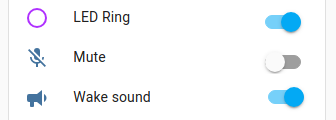
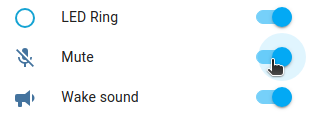
Mute: tweaks (#64)
* Mute: tweaks

- fix typo
- add related topics
- change screenshot to show active mute toggle

* Update src/guides/mute.html

* Update src/guides/mute.html

diff --git a/src/guides/mute.html b/src/guides/mute.html
@@ -24,3 +24,17 @@ tools:
 {% render "proc.include.liquid", proc: procedureMute %}
 
 
+<div class="container">
+  <div class="text">
+    <h1>Related topics</h1>
+    <span>
+      <ul><li><a href="/documentation/status_colors/"
+        target="_blank">Status colors</a></li>
+        <li><a href="/guides/wake_sound_toggle/"
+          target="_blank">Turning the wake sound on or off</a></li>
+        <li><a href="/guides/volume_change/"
+          target="_blank">Changing the speaker volume</a></li>
+      </ul>
+    </span>
+  </div>
+</div>
